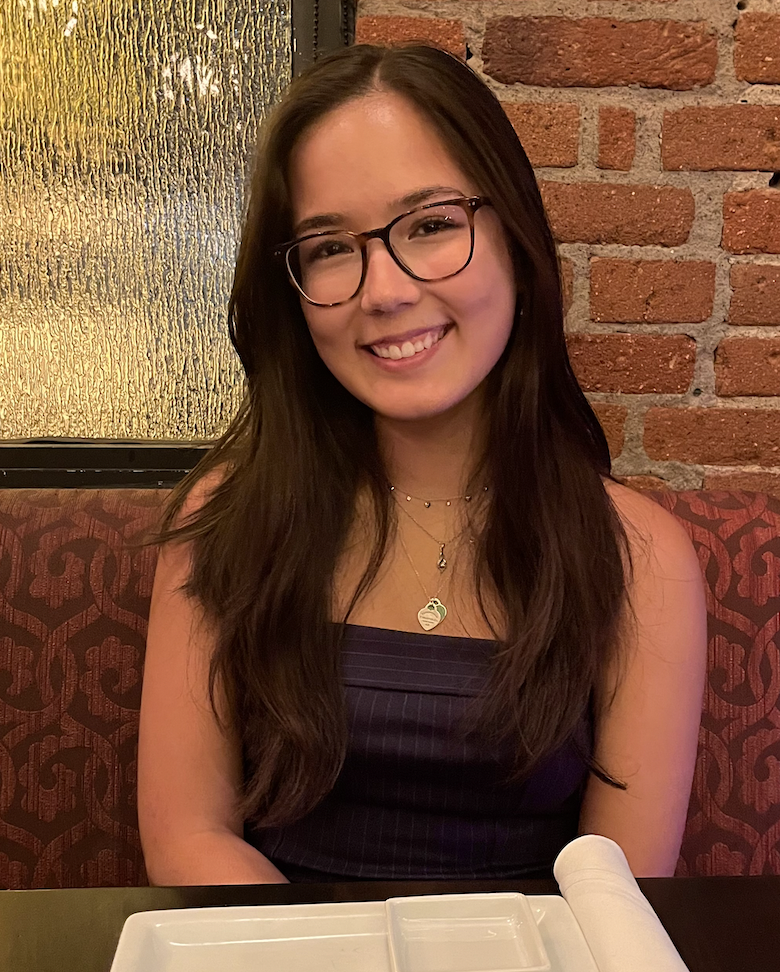
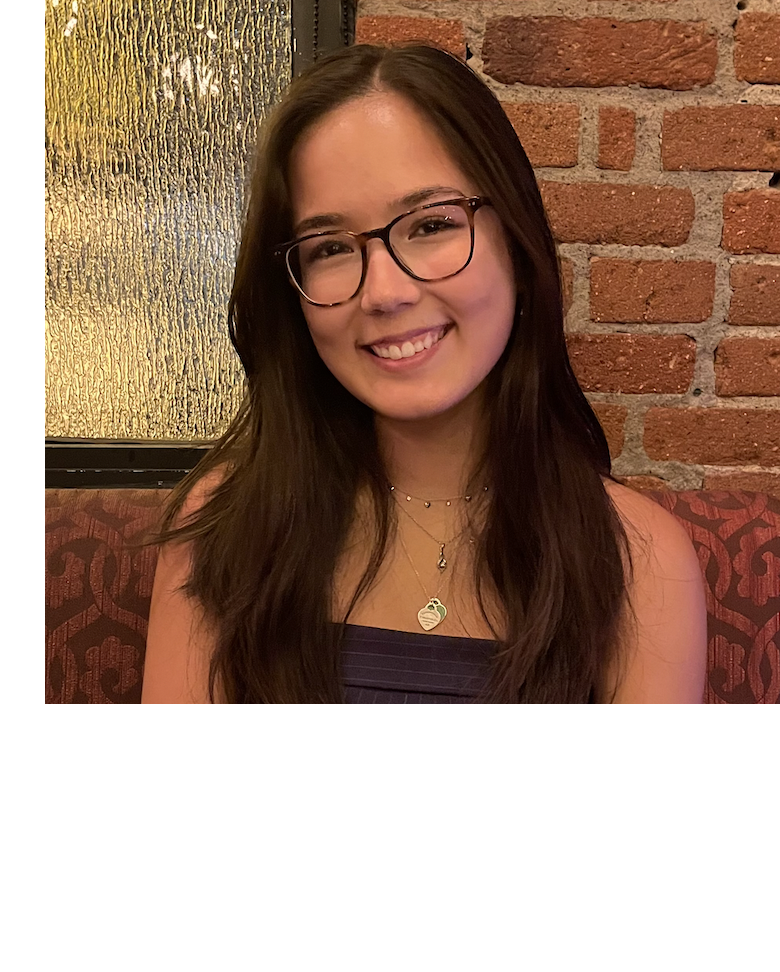
adding cards, video, grid

diff --git a/landing.html b/landing.html
@@ -38,24 +38,33 @@
   </div>
 </nav>
 
-<main class="container">
-
-  <p></p>
-  <div class="card mb-3" style="max-width: 600px;">
-    <div class="row g-0">
-      <div class="col-md-4">
-        <img src="photoOfMe.png" class="img-fluid rounded-start" alt="...">
+<div class="row">
+  <div class="col-sm-6 mb-3 mb-sm-0">
+    <div class="card">
+      <div class="card-body">
+        <iframe id="video" width="420" height="315"
+        src="https://www.youtube.com/embed/tgbNymZ7vqY">
+        </iframe>
+        <h5 class="card-title">Special title treatment</h5>
       </div>
-      <div class="col-md-8">
-        <div class="card-body">
-          <h1 class="card-title">Bio</h1>
-          <p class="card-text" style="color: rgb(90, 90, 90);">My name is Deborah Cilento bla bla bla to be continued</p>
+    </div>
+  </div>
+  <div class="col-sm-6">
+    <div class="card mb-3" style="max-width: 2000px; height: 448px;">
+      <div class="row g-0">
+        <div class="col-md-4">
+          <img src="photoOfMe.png" class="img-fluid rounded-start" alt="...">
+        </div>
+        <div class="col-md-8">
+          <div class="card-body" id="bio">
+            <h1 class="card-title">About Me</h1>
+            <p class="card-text" style="color: rgb(90, 90, 90);">bla bla bla bla bla </p>
+          </div>
         </div>
       </div>
     </div>
   </div>
-
-</main>
+</div>
 
   </body>
 </html>

diff --git a/projects.html b/projects.html
@@ -31,5 +31,29 @@
           </div>
         </div>
       </nav>
+
+      <main class="content" id="layout">
+        <div id="grid">PacMen</div>
+        <div id="grid">Eye Movement</div>
+        <div id="grid">Bus Tracker</div>
+
+        <div id="grid" style="font-size: 20px;">
+            WRITE STUFF HERE 
+            <br>
+            <a class="btn btn-outline-primary" href="https://github.com/deborahcilento/pacMen" role="button">Repository</a>
+        </div>
+
+        <div id="grid" style="font-size: 20px;">
+            WRITE STUFF HERE 
+            <br>
+            <a class="btn btn-outline-primary" href="https://github.com/deborahcilento/eyeMovement" role="button">Repository</a>
+        </div>
+        <div id="grid" style="font-size: 20px;">
+            WRITE STUFF HERE 
+            <br>
+            <a class="btn btn-outline-primary" href="https://github.com/deborahcilento/busTracker" role="button">Repository</a>
+        </div>
+      </main>
+
   </body>
 </html>

diff --git a/styles.css b/styles.css
@@ -1,3 +1,37 @@
 body {
     background-color: rgb(246, 211, 223);
 }
+
+#grid {
+    background: white;
+    padding: 30px;
+    text-align: center;
+    font-size: 30px;
+    color: rgb(0, 0, 0); 
+    border-radius: 5px;
+  }
+
+  .content {
+    display: grid;
+    grid-template-columns: 1fr 1fr 1fr;
+    grid-template-rows: 1fr 2fr;
+    gap: 5px;
+  }
+
+#layout {
+    margin: 30px;
+}
+
+#video {
+    margin: 30px;
+}
+
+img {
+    padding-top: 45px;
+    padding-left: 30px;
+}
+
+#bio {
+    padding-top: 45px;
+}
+
